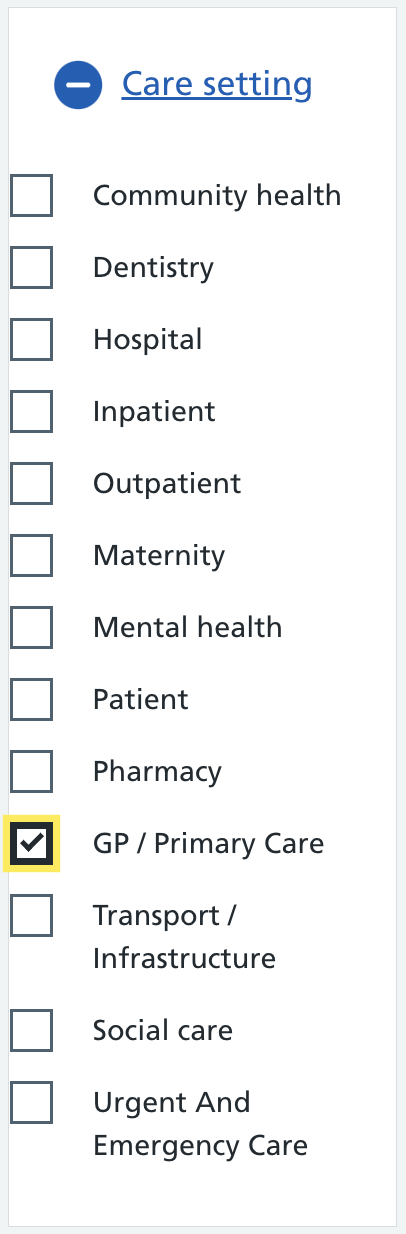
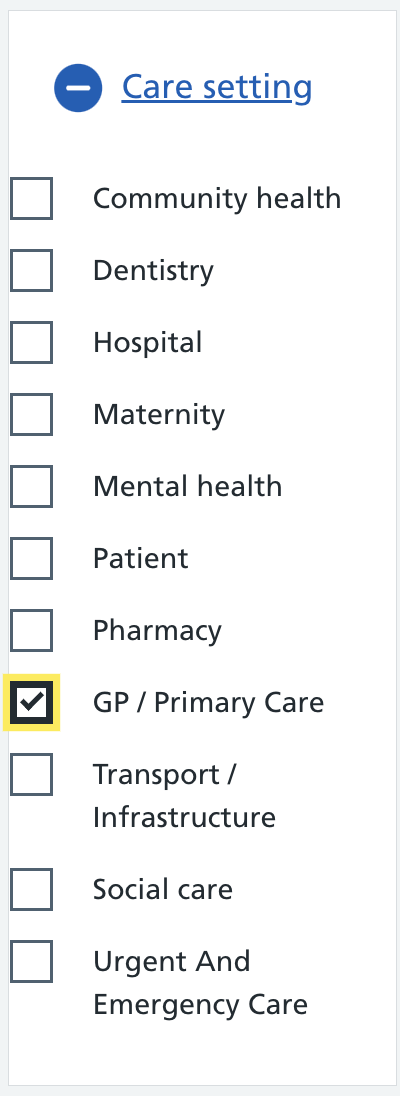
updated includes to make them perform better

diff --git a/app/views/includes/expander-topic.html b/app/views/includes/expander-topic.html
@@ -15,99 +15,99 @@
               <div class="nhsuk-checkboxes nhsuk-checkboxes--small nhsuk-checkboxes--conditional">
 
                 <div class="nhsuk-checkboxes__item">
-                  <input class="nhsuk-checkboxes__input" id="contact-1" name="setting" type="checkbox" value="Community" aria-controls="conditional-contact-1" aria-expanded="false">
-                  <label class="nhsuk-label nhsuk-checkboxes__label nhsuk-u-font-size-16" for="contact-1">
+                  <input class="nhsuk-checkboxes__input" id="topic-1" name="setting" type="checkbox" value="Appointments" aria-controls="conditional-topic-1" aria-expanded="false">
+                  <label class="nhsuk-label nhsuk-checkboxes__label nhsuk-u-font-size-16" for="topic-1">
                     Appointments
                   </label>
                 </div>
                 <div class="nhsuk-checkboxes__item">
-                  <input class="nhsuk-checkboxes__input" id="contact-2" name="setting" type="checkbox" value="Dentistry" aria-controls="conditional-contact-2" aria-expanded="false">
-                  <label class="nhsuk-label nhsuk-checkboxes__label nhsuk-u-font-size-16" for="contact-2">
+                  <input class="nhsuk-checkboxes__input" id="topic-2" name="setting" type="checkbox" value="Referrals" aria-controls="conditional-topic-2" aria-expanded="false">
+                  <label class="nhsuk-label nhsuk-checkboxes__label nhsuk-u-font-size-16" for="topic-2">
                     Referrals
                   </label>
                 </div>
                 <div class="nhsuk-checkboxes__item">
-                  <input class="nhsuk-checkboxes__input" id="contact-3" name="setting" type="checkbox" value="Hospital" aria-controls="conditional-contact-3" aria-expanded="false">
-                  <label class="nhsuk-label nhsuk-checkboxes__label nhsuk-u-font-size-16" for="contact-3">
+                  <input class="nhsuk-checkboxes__input" id="topic-3" name="setting" type="checkbox" value="Access" aria-controls="conditional-topic-3" aria-expanded="false">
+                  <label class="nhsuk-label nhsuk-checkboxes__label nhsuk-u-font-size-16" for="topic-3">
                     Access to records
                   </label>
                 </div>
 
                 <div class="nhsuk-checkboxes__item">
-                  <input class="nhsuk-checkboxes__input" id="contact-5" name="setting" type="checkbox" value="Inpatient" aria-controls="conditional-contact-5" aria-expanded="false">
-                  <label class="nhsuk-label nhsuk-checkboxes__label nhsuk-u-font-size-16" for="contact-5">
+                  <input class="nhsuk-checkboxes__input" id="topic-4" name="setting" type="checkbox" value="Clinicaldecision" aria-controls="conditional-topic-4" aria-expanded="false">
+                  <label class="nhsuk-label nhsuk-checkboxes__label nhsuk-u-font-size-16" for="topic-4">
                     Clinical decision support
                   </label>
                 </div>
                 <div class="nhsuk-checkboxes__item">
-                  <input class="nhsuk-checkboxes__input" id="contact-6" name="setting" type="checkbox" value="Outpatient" aria-controls="conditional-contact-6" aria-expanded="false">
-                  <label class="nhsuk-label nhsuk-checkboxes__label nhsuk-u-font-size-16" for="contact-6">
+                  <input class="nhsuk-checkboxes__input" id="topic-5" name="setting" type="checkbox" value="Continuity" aria-controls="conditional-topic-5" aria-expanded="false">
+                  <label class="nhsuk-label nhsuk-checkboxes__label nhsuk-u-font-size-16" for="topic-5">
                     Continuity of care
                   </label>
                 </div>
                 <div class="nhsuk-checkboxes__item">
-                  <input class="nhsuk-checkboxes__input" id="contact-7" name="setting" type="checkbox" value="Maternity" aria-controls="conditional-contact-7" aria-expanded="false">
-                  <label class="nhsuk-label nhsuk-checkboxes__label nhsuk-u-font-size-16" for="contact-7">
+                  <input class="nhsuk-checkboxes__input" id="topic-6" name="setting" type="checkbox" value="Demographics" aria-controls="conditional-topic-6" aria-expanded="false">
+                  <label class="nhsuk-label nhsuk-checkboxes__label nhsuk-u-font-size-16" for="topic-6">
                     Demographics
                   </label>
                 </div>
                 <div class="nhsuk-checkboxes__item">
-                  <input class="nhsuk-checkboxes__input" id="contact-8" name="setting" type="checkbox" value="Mental" aria-controls="conditional-contact-8" aria-expanded="false">
-                  <label class="nhsuk-label nhsuk-checkboxes__label nhsuk-u-font-size-16" for="contact-8">
+                  <input class="nhsuk-checkboxes__input" id="topic-7" name="setting" type="checkbox" value="Key" aria-controls="conditional-topic-7" aria-expanded="false">
+                  <label class="nhsuk-label nhsuk-checkboxes__label nhsuk-u-font-size-16" for="topic-7">
                     Key care information
                   </label>
                 </div>
                 <div class="nhsuk-checkboxes__item">
-                  <input class="nhsuk-checkboxes__input" id="contact-9" name="setting" type="checkbox" value="Patient" aria-controls="conditional-contact-9" aria-expanded="false">
-                  <label class="nhsuk-label nhsuk-checkboxes__label nhsuk-u-font-size-16" for="contact-9">
+                  <input class="nhsuk-checkboxes__input" id="topic-8" name="setting" type="checkbox" value="Prescribing" aria-controls="conditional-topic-8" aria-expanded="false">
+                  <label class="nhsuk-label nhsuk-checkboxes__label nhsuk-u-font-size-16" for="topic-8">
                     Prescribing
                   </label>
                 </div>
                 <div class="nhsuk-checkboxes__item">
-                  <input class="nhsuk-checkboxes__input" id="contact-10" name="setting" type="checkbox" value="Pharmacy" aria-controls="conditional-contact-10" aria-expanded="false">
-                  <label class="nhsuk-label nhsuk-checkboxes__label nhsuk-u-font-size-16" for="contact-10">
+                  <input class="nhsuk-checkboxes__input" id="topic-9" name="setting" type="checkbox" value="Dispensing" aria-controls="conditional-topic-9" aria-expanded="false">
+                  <label class="nhsuk-label nhsuk-checkboxes__label nhsuk-u-font-size-16" for="topic-9">
                     Dispensing
                   </label>
                 </div>
                 <div class="nhsuk-checkboxes__item">
-                  <input class="nhsuk-checkboxes__input" id="contact-1" name="setting" type="checkbox" value="GP" aria-controls="conditional-contact-1" aria-expanded="false">
-                  <label class="nhsuk-label nhsuk-checkboxes__label nhsuk-u-font-size-16" for="contact-1">
+                  <input class="nhsuk-checkboxes__input" id="topic-10" name="setting" type="checkbox" value="Vaccination" aria-controls="conditional-topic-10" aria-expanded="false">
+                  <label class="nhsuk-label nhsuk-checkboxes__label nhsuk-u-font-size-16" for="topic-10">
                     Vaccination
                   </label>
                 </div>
                 <div class="nhsuk-checkboxes__item">
-                  <input class="nhsuk-checkboxes__input" id="contact-1" name="setting" type="checkbox" value="Transport" aria-controls="conditional-contact-1" aria-expanded="false">
-                  <label class="nhsuk-label nhsuk-checkboxes__label nhsuk-u-font-size-16" for="contact-1">
+                  <input class="nhsuk-checkboxes__input" id="topic-11" name="setting" type="checkbox" value="Messaging" aria-controls="conditional-topic-11" aria-expanded="false">
+                  <label class="nhsuk-label nhsuk-checkboxes__label nhsuk-u-font-size-16" for="topic-11">
                     Messaging
                   </label>
                 </div>
                 <div class="nhsuk-checkboxes__item">
-                  <input class="nhsuk-checkboxes__input" id="contact-1" name="setting" type="checkbox" value="Social" aria-controls="conditional-contact-1" aria-expanded="false">
-                  <label class="nhsuk-label nhsuk-checkboxes__label nhsuk-u-font-size-16" for="contact-1">
+                  <input class="nhsuk-checkboxes__input" id="topic-12" name="setting" type="checkbox" value="Patient" aria-controls="conditional-topic-12" aria-expanded="false">
+                  <label class="nhsuk-label nhsuk-checkboxes__label nhsuk-u-font-size-16" for="topic-12">
                     Patient communication
                   </label>
                 </div>
                 <div class="nhsuk-checkboxes__item">
-                  <input class="nhsuk-checkboxes__input" id="contact-1" name="setting" type="checkbox" value="Urgent" aria-controls="conditional-contact-1" aria-expanded="false">
-                  <label class="nhsuk-label nhsuk-checkboxes__label nhsuk-u-font-size-16" for="contact-1">
+                  <input class="nhsuk-checkboxes__input" id="topic-13" name="setting" type="checkbox" value="Reference" aria-controls="conditional-topic-13" aria-expanded="false">
+                  <label class="nhsuk-label nhsuk-checkboxes__label nhsuk-u-font-size-16" for="topic-13">
                     Reference data
                   </label>
                 </div>
                 <div class="nhsuk-checkboxes__item">
-                  <input class="nhsuk-checkboxes__input" id="contact-1" name="setting" type="checkbox" value="Urgent" aria-controls="conditional-contact-1" aria-expanded="false">
-                  <label class="nhsuk-label nhsuk-checkboxes__label nhsuk-u-font-size-16" for="contact-1">
+                  <input class="nhsuk-checkboxes__input" id="topic-14" name="setting" type="checkbox" value="Information" aria-controls="conditional-topic-14" aria-expanded="false">
+                  <label class="nhsuk-label nhsuk-checkboxes__label nhsuk-u-font-size-16" for="topic-14">
                     Information governance
                   </label>
                 </div>
                 <div class="nhsuk-checkboxes__item">
-                  <input class="nhsuk-checkboxes__input" id="contact-1" name="setting" type="checkbox" value="Urgent" aria-controls="conditional-contact-1" aria-expanded="false">
-                  <label class="nhsuk-label nhsuk-checkboxes__label nhsuk-u-font-size-16" for="contact-1">
+                  <input class="nhsuk-checkboxes__input" id="topic-15" name="setting" type="checkbox" value="Security" aria-controls="conditional-topic-15" aria-expanded="false">
+                  <label class="nhsuk-label nhsuk-checkboxes__label nhsuk-u-font-size-16" for="topic-15">
                     Security
                   </label>
                 </div>
                 <div class="nhsuk-checkboxes__item">
-                  <input class="nhsuk-checkboxes__input" id="contact-1" name="setting" type="checkbox" value="Urgent" aria-controls="conditional-contact-1" aria-expanded="false">
-                  <label class="nhsuk-label nhsuk-checkboxes__label nhsuk-u-font-size-16" for="contact-1">
+                  <input class="nhsuk-checkboxes__input" id="topic-16" name="setting" type="checkbox" value="Test" aria-controls="conditional-topic-16" aria-expanded="false">
+                  <label class="nhsuk-label nhsuk-checkboxes__label nhsuk-u-font-size-16" for="topic-16">
                     Test and diagnostics
                   </label>
                 </div>

diff --git a/app/views/includes/filters-care-setting-roadmap.html b/app/views/includes/filters-care-setting-roadmap.html
@@ -6,26 +6,26 @@
       <fieldset class="govuk-fieldset">
         <div class="govuk-checkboxes govuk-checkboxes--small" data-module="govuk-checkboxes">
           <div class="govuk-checkboxes__item">
-            <input class="govuk-checkboxes__input" id="organisation" name="organisation" type="checkbox" value="hmrc">
-            <label class="govuk-label govuk-checkboxes__label govuk-body govuk-!-font-size-16" for="organisation">
+            <input class="govuk-checkboxes__input" id="care-1" name="organisation" type="checkbox" value="Community">
+            <label class="govuk-label govuk-checkboxes__label govuk-body govuk-!-font-size-16" for="care-1">
               Community health
             </label>
           </div>
           <div class="govuk-checkboxes__item">
-            <input class="govuk-checkboxes__input" id="organisation-2" name="organisation" type="checkbox" value="employment-tribunal">
-            <label class="govuk-label govuk-checkboxes__label govuk-body govuk-!-font-size-16" for="organisation-2">
+            <input class="govuk-checkboxes__input" id="care-2" name="organisation" type="checkbox" value="Maternity">
+            <label class="govuk-label govuk-checkboxes__label govuk-body govuk-!-font-size-16" for="care-2">
               Maternity
             </label>
           </div>
           <div class="govuk-checkboxes__item">
-            <input class="govuk-checkboxes__input" id="organisation-3" name="organisation" type="checkbox" value="MOD">
-            <label class="govuk-label govuk-checkboxes__label govuk-body govuk-!-font-size-16" for="organisation-3">
+            <input class="govuk-checkboxes__input" id="care-3" name="organisation" type="checkbox" value="Pharmacy">
+            <label class="govuk-label govuk-checkboxes__label govuk-body govuk-!-font-size-16" for="care-3">
               Pharmacy
             </label>
           </div>
           <div class="govuk-checkboxes__item">
-            <input class="govuk-checkboxes__input" id="organisation-4" name="organisation" type="checkbox" value="DfT">
-            <label class="govuk-label govuk-checkboxes__label govuk-body govuk-!-font-size-16" for="organisation-4">
+            <input class="govuk-checkboxes__input" id="care-4" name="organisation" type="checkbox" value="Social">
+            <label class="govuk-label govuk-checkboxes__label govuk-body govuk-!-font-size-16" for="care-4">
               Social care
             </label>
           </div>
@@ -41,26 +41,26 @@
       <fieldset class="govuk-fieldset">
         <div class="govuk-checkboxes govuk-checkboxes--small" data-module="govuk-checkboxes">
           <div class="govuk-checkboxes__item">
-            <input class="govuk-checkboxes__input" id="organisation" name="organisation" type="checkbox" value="hmrc">
-            <label class="govuk-label govuk-checkboxes__label govuk-body govuk-!-font-size-16" for="organisation">
+            <input class="govuk-checkboxes__input" id="care-5" name="organisation" type="checkbox" value="Dentistry">
+            <label class="govuk-label govuk-checkboxes__label govuk-body govuk-!-font-size-16" for="care-5">
               Dentistry
             </label>
           </div>
           <div class="govuk-checkboxes__item">
-            <input class="govuk-checkboxes__input" id="organisation-2" name="organisation" type="checkbox" value="employment-tribunal">
-            <label class="govuk-label govuk-checkboxes__label govuk-body govuk-!-font-size-16" for="organisation-2">
+            <input class="govuk-checkboxes__input" id="care-6" name="organisation" type="checkbox" value="Mental-health">
+            <label class="govuk-label govuk-checkboxes__label govuk-body govuk-!-font-size-16" for="care-6">
               Mental health
             </label>
           </div>
           <div class="govuk-checkboxes__item">
-            <input class="govuk-checkboxes__input" id="organisation-3" name="organisation" type="checkbox" value="MOD">
-            <label class="govuk-label govuk-checkboxes__label govuk-body govuk-!-font-size-16" for="organisation-3">
+            <input class="govuk-checkboxes__input" id="care-7" name="organisation" type="checkbox" value="GP">
+            <label class="govuk-label govuk-checkboxes__label govuk-body govuk-!-font-size-16" for="care-7">
               GP / Primary care
             </label>
           </div>
           <div class="govuk-checkboxes__item">
-            <input class="govuk-checkboxes__input" id="organisation-4" name="organisation" type="checkbox" value="DfT">
-            <label class="govuk-label govuk-checkboxes__label govuk-body govuk-!-font-size-16" for="organisation-4">
+            <input class="govuk-checkboxes__input" id="care-8" name="organisation" type="checkbox" value="Urgent-emergency">
+            <label class="govuk-label govuk-checkboxes__label govuk-body govuk-!-font-size-16" for="care-8">
               Urgent and emergency care
             </label>
           </div>
@@ -77,20 +77,20 @@
       <fieldset class="govuk-fieldset">
         <div class="govuk-checkboxes govuk-checkboxes--small" data-module="govuk-checkboxes">
           <div class="govuk-checkboxes__item">
-            <input class="govuk-checkboxes__input" id="organisation" name="organisation" type="checkbox" value="hmrc">
-            <label class="govuk-label govuk-checkboxes__label govuk-body govuk-!-font-size-16" for="organisation">
+            <input class="govuk-checkboxes__input" id="care-9" name="organisation" type="checkbox" value="Hospital">
+            <label class="govuk-label govuk-checkboxes__label govuk-body govuk-!-font-size-16" for="care-9">
               Hospital
             </label>
           </div>
           <div class="govuk-checkboxes__item">
-            <input class="govuk-checkboxes__input" id="organisation-2" name="organisation" type="checkbox" value="employment-tribunal">
-            <label class="govuk-label govuk-checkboxes__label govuk-body govuk-!-font-size-16" for="organisation-2">
+            <input class="govuk-checkboxes__input" id="care-10" name="organisation" type="checkbox" value="Patient">
+            <label class="govuk-label govuk-checkboxes__label govuk-body govuk-!-font-size-16" for="care-10">
               Patient
             </label>
           </div>
           <div class="govuk-checkboxes__item">
-            <input class="govuk-checkboxes__input" id="organisation-3" name="organisation" type="checkbox" value="MOD">
-            <label class="govuk-label govuk-checkboxes__label govuk-body govuk-!-font-size-16" for="organisation-3">
+            <input class="govuk-checkboxes__input" id="care-11" name="organisation" type="checkbox" value="Transport">
+            <label class="govuk-label govuk-checkboxes__label govuk-body govuk-!-font-size-16" for="care-11">
               Transport / Infrastructure
             </label>
           </div>

diff --git a/app/views/includes/expander-care-setting.html b/app/views/includes/expander-care-setting.html
@@ -32,64 +32,51 @@
                     Hospital
                   </label>
                 </div>
-
                 <div class="nhsuk-checkboxes__item">
-                  <input class="nhsuk-checkboxes__input" id="contact-5" name="setting" type="checkbox" value="Inpatient" aria-controls="conditional-contact-5" aria-expanded="false">
-                  <label class="nhsuk-label nhsuk-checkboxes__label nhsuk-u-font-size-16" for="contact-5">
-                    Inpatient
-                  </label>
-                </div>
-                <div class="nhsuk-checkboxes__item">
-                  <input class="nhsuk-checkboxes__input" id="contact-6" name="setting" type="checkbox" value="Outpatient" aria-controls="conditional-contact-6" aria-expanded="false">
+                  <input class="nhsuk-checkboxes__input" id="contact-6" name="setting" type="checkbox" value="Maternity" aria-controls="conditional-contact-6" aria-expanded="false">
                   <label class="nhsuk-label nhsuk-checkboxes__label nhsuk-u-font-size-16" for="contact-6">
-                    Outpatient
-                  </label>
-                </div>
-                <div class="nhsuk-checkboxes__item">
-                  <input class="nhsuk-checkboxes__input" id="contact-7" name="setting" type="checkbox" value="Maternity" aria-controls="conditional-contact-7" aria-expanded="false">
-                  <label class="nhsuk-label nhsuk-checkboxes__label nhsuk-u-font-size-16" for="contact-7">
                     Maternity
                   </label>
                 </div>
                 <div class="nhsuk-checkboxes__item">
-                  <input class="nhsuk-checkboxes__input" id="contact-8" name="setting" type="checkbox" value="Mental" aria-controls="conditional-contact-8" aria-expanded="false">
-                  <label class="nhsuk-label nhsuk-checkboxes__label nhsuk-u-font-size-16" for="contact-8">
+                  <input class="nhsuk-checkboxes__input" id="contact-7" name="setting" type="checkbox" value="Mental" aria-controls="conditional-contact-7" aria-expanded="false">
+                  <label class="nhsuk-label nhsuk-checkboxes__label nhsuk-u-font-size-16" for="contact-7">
                     Mental health
                   </label>
                 </div>
                 <div class="nhsuk-checkboxes__item">
-                  <input class="nhsuk-checkboxes__input" id="contact-9" name="setting" type="checkbox" value="Patient" aria-controls="conditional-contact-9" aria-expanded="false">
-                  <label class="nhsuk-label nhsuk-checkboxes__label nhsuk-u-font-size-16" for="contact-9">
+                  <input class="nhsuk-checkboxes__input" id="contact-8" name="setting" type="checkbox" value="Patient" aria-controls="conditional-contact-8" aria-expanded="false">
+                  <label class="nhsuk-label nhsuk-checkboxes__label nhsuk-u-font-size-16" for="contact-8">
                     Patient
                   </label>
                 </div>
                 <div class="nhsuk-checkboxes__item">
-                  <input class="nhsuk-checkboxes__input" id="contact-10" name="setting" type="checkbox" value="Pharmacy" aria-controls="conditional-contact-10" aria-expanded="false">
-                  <label class="nhsuk-label nhsuk-checkboxes__label nhsuk-u-font-size-16" for="contact-10">
+                  <input class="nhsuk-checkboxes__input" id="contact-9" name="setting" type="checkbox" value="Pharmacy" aria-controls="conditional-contact-9" aria-expanded="false">
+                  <label class="nhsuk-label nhsuk-checkboxes__label nhsuk-u-font-size-16" for="contact-9">
                     Pharmacy
                   </label>
                 </div>
                 <div class="nhsuk-checkboxes__item">
-                  <input class="nhsuk-checkboxes__input" id="contact-1" name="setting" type="checkbox" value="GP" aria-controls="conditional-contact-1" aria-expanded="false">
-                  <label class="nhsuk-label nhsuk-checkboxes__label nhsuk-u-font-size-16" for="contact-1">
+                  <input class="nhsuk-checkboxes__input" id="contact-10" name="setting" type="checkbox" value="GP" aria-controls="conditional-contact-10" aria-expanded="false">
+                  <label class="nhsuk-label nhsuk-checkboxes__label nhsuk-u-font-size-16" for="contact-10">
                     GP / Primary Care
                   </label>
                 </div>
                 <div class="nhsuk-checkboxes__item">
-                  <input class="nhsuk-checkboxes__input" id="contact-1" name="setting" type="checkbox" value="Transport" aria-controls="conditional-contact-1" aria-expanded="false">
-                  <label class="nhsuk-label nhsuk-checkboxes__label nhsuk-u-font-size-16" for="contact-1">
+                  <input class="nhsuk-checkboxes__input" id="contact-11" name="setting" type="checkbox" value="Transport" aria-controls="conditional-contact-11" aria-expanded="false">
+                  <label class="nhsuk-label nhsuk-checkboxes__label nhsuk-u-font-size-16" for="contact-11">
                     Transport / Infrastructure
                   </label>
                 </div>
                 <div class="nhsuk-checkboxes__item">
-                  <input class="nhsuk-checkboxes__input" id="contact-1" name="setting" type="checkbox" value="Social" aria-controls="conditional-contact-1" aria-expanded="false">
-                  <label class="nhsuk-label nhsuk-checkboxes__label nhsuk-u-font-size-16" for="contact-1">
+                  <input class="nhsuk-checkboxes__input" id="contact-12" name="setting" type="checkbox" value="Social" aria-controls="conditional-contact-12" aria-expanded="false">
+                  <label class="nhsuk-label nhsuk-checkboxes__label nhsuk-u-font-size-16" for="contact-12">
                     Social care
                   </label>
                 </div>
                 <div class="nhsuk-checkboxes__item">
-                  <input class="nhsuk-checkboxes__input" id="contact-1" name="setting" type="checkbox" value="Urgent" aria-controls="conditional-contact-1" aria-expanded="false">
-                  <label class="nhsuk-label nhsuk-checkboxes__label nhsuk-u-font-size-16" for="contact-1">
+                  <input class="nhsuk-checkboxes__input" id="contact-13" name="setting" type="checkbox" value="Urgent" aria-controls="conditional-contact-13" aria-expanded="false">
+                  <label class="nhsuk-label nhsuk-checkboxes__label nhsuk-u-font-size-16" for="contact-13">
                     Urgent And Emergency Care
                   </label>
                 </div>

diff --git a/app/views/includes/expander-type.html b/app/views/includes/expander-type.html
@@ -12,27 +12,27 @@
               <div class="nhsuk-checkboxes nhsuk-checkboxes--small nhsuk-checkboxes--conditional">
 
                 <div class="nhsuk-checkboxes__item">
-                  <input class="nhsuk-checkboxes__input" id="contact-1" name="setting" type="checkbox" value="Community" aria-controls="conditional-contact-1" aria-expanded="false">
-                  <label class="nhsuk-label nhsuk-checkboxes__label nhsuk-u-font-size-16" for="contact-1">
+                  <input class="nhsuk-checkboxes__input" id="standard-1" name="setting" type="checkbox" value="Technical" aria-controls="conditional-standard-1" aria-expanded="false">
+                  <label class="nhsuk-label nhsuk-checkboxes__label nhsuk-u-font-size-16" for="standard-1">
                     Technical specifications and APIs
                   </label>
                 </div>
                 <div class="nhsuk-checkboxes__item">
-                  <input class="nhsuk-checkboxes__input" id="contact-2" name="setting" type="checkbox" value="Dentistry" aria-controls="conditional-contact-2" aria-expanded="false">
-                  <label class="nhsuk-label nhsuk-checkboxes__label nhsuk-u-font-size-16" for="contact-2">
+                  <input class="nhsuk-checkboxes__input" id="standard-2" name="setting" type="checkbox" value="Clinical" aria-controls="conditional-standard-2" aria-expanded="false">
+                  <label class="nhsuk-label nhsuk-checkboxes__label nhsuk-u-font-size-16" for="standard-2">
                     Clinical and care record standards
                   </label>
                 </div>
                 <div class="nhsuk-checkboxes__item">
-                  <input class="nhsuk-checkboxes__input" id="contact-3" name="setting" type="checkbox" value="Hospital" aria-controls="conditional-contact-3" aria-expanded="false">
-                  <label class="nhsuk-label nhsuk-checkboxes__label nhsuk-u-font-size-16" for="contact-3">
+                  <input class="nhsuk-checkboxes__input" id="standard-3" name="setting" type="checkbox" value="Medical" aria-controls="conditional-standard-3" aria-expanded="false">
+                  <label class="nhsuk-label nhsuk-checkboxes__label nhsuk-u-font-size-16" for="standard-3">
                     Medical and data dictionaries
                   </label>
                 </div>
 
                 <div class="nhsuk-checkboxes__item">
-                  <input class="nhsuk-checkboxes__input" id="contact-5" name="setting" type="checkbox" value="Inpatient" aria-controls="conditional-contact-5" aria-expanded="false">
-                  <label class="nhsuk-label nhsuk-checkboxes__label nhsuk-u-font-size-16" for="contact-5">
+                  <input class="nhsuk-checkboxes__input" id="standard-4" name="setting" type="checkbox" value="Data" aria-controls="conditional-standard-4" aria-expanded="false">
+                  <label class="nhsuk-label nhsuk-checkboxes__label nhsuk-u-font-size-16" for="standard-4">
                     Data protection and governance
                   </label>
                 </div>

diff --git a/app/views/v7/community-roadmap-filtered.html b/app/views/v7/community-roadmap-filtered.html
@@ -53,7 +53,7 @@ Standards development roadmap - Standards directory
     </div> -->
 <h2 class="nhsuk-heading-m">Filter the roadmap by care setting</h2>
     {% include "includes/filters-care-setting-roadmap.html" %}
-    <button class="nhsuk-button" type="submit" href="community-roadmap-filtered">
+    <button class="nhsuk-button" type="submit">
       Filter the roadmap
     </button>
   </div>
